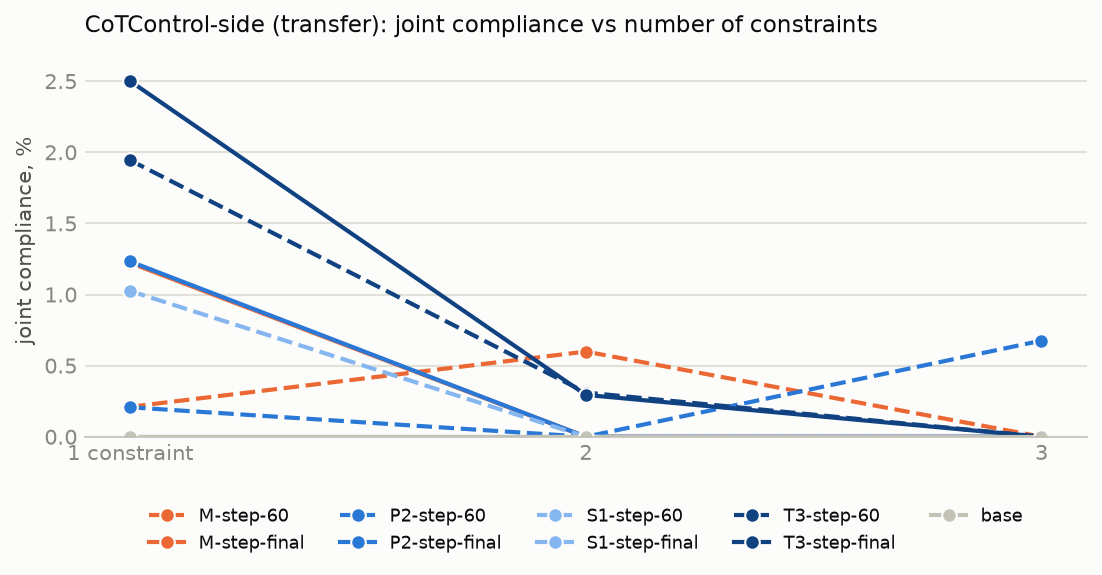
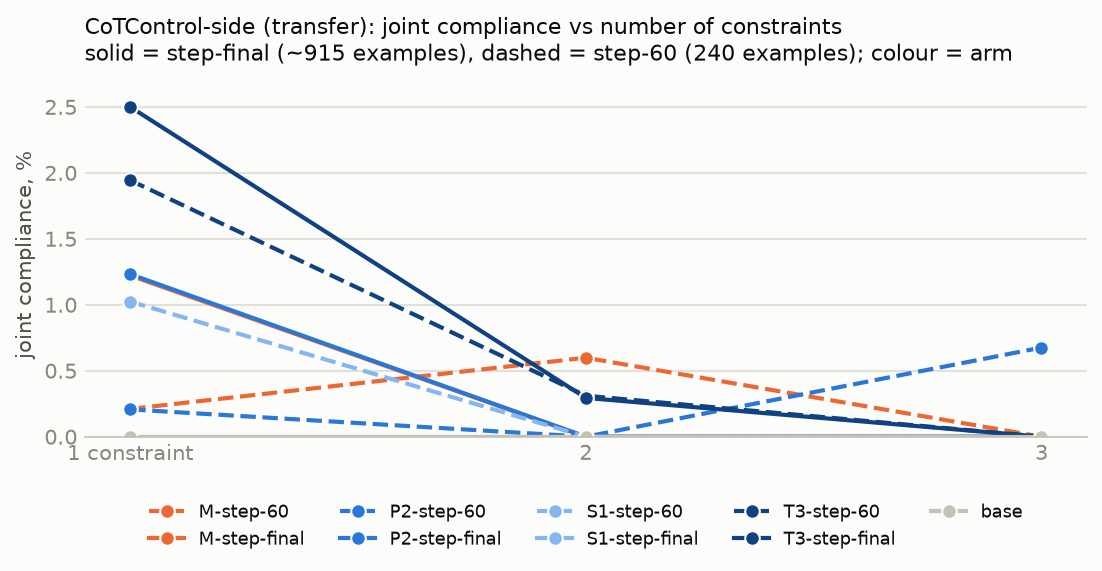
report figures: state line styles (solid step-final, dashed step-60)

diff --git a/scripts/report_multi.py b/scripts/report_multi.py
@@ -64,6 +64,6 @@ for suite, name in (("reasonif_multi", "ReasonIF-side (in-distribution constrain
         pts = [(lvl, rate(l, suite, lvl)[0]) for lvl in (1, 2, 3)]; pts = [(x, 100 * y) for x, y in pts if y is not None]
         if pts: ax.plot([p[0] for p in pts], [p[1] for p in pts], marker="o", ms=7, lw=2, color=ARMC.get(arm(l), INK2), ls="-" if "final" in l or l == "base" else "--", markeredgecolor=SURF, label=l)
     ax.set_xticks([1, 2, 3]); ax.set_xticklabels(["1 constraint", "2", "3"]); ax.set_ylabel("joint compliance, %", color=INK2); ax.yaxis.grid(True, color=GRID, lw=1); ax.set_axisbelow(True); ax.tick_params(length=0); ax.spines["left"].set_visible(False)
-    ax.legend(frameon=False, fontsize=8.5, ncol=5, loc="upper center", bbox_to_anchor=(0.5, -0.14)); ax.set_title(f"{name}: joint compliance vs number of constraints", loc="left", fontsize=11, color=INK)
+    ax.legend(frameon=False, fontsize=8.5, ncol=5, loc="upper center", bbox_to_anchor=(0.5, -0.14)); ax.set_title(f"{name}: joint compliance vs number of constraints\nsolid = step-final (~915 examples), dashed = step-60 (240 examples); colour = arm", loc="left", fontsize=10.5, color=INK)
     ax.set_ylim(0, max(ax.get_ylim()[1], 1) * 1.05); fig.tight_layout(); fig.savefig(REPO / f"figures/multi_joint_{suite}.png", bbox_inches="tight"); plt.close(fig)
 (REPO / "MULTI_CONSTRAINT_RESULTS.md").write_text("\n".join(md), encoding="utf-8"); print("wrote MULTI_CONSTRAINT_RESULTS.md and figures for", labels)
